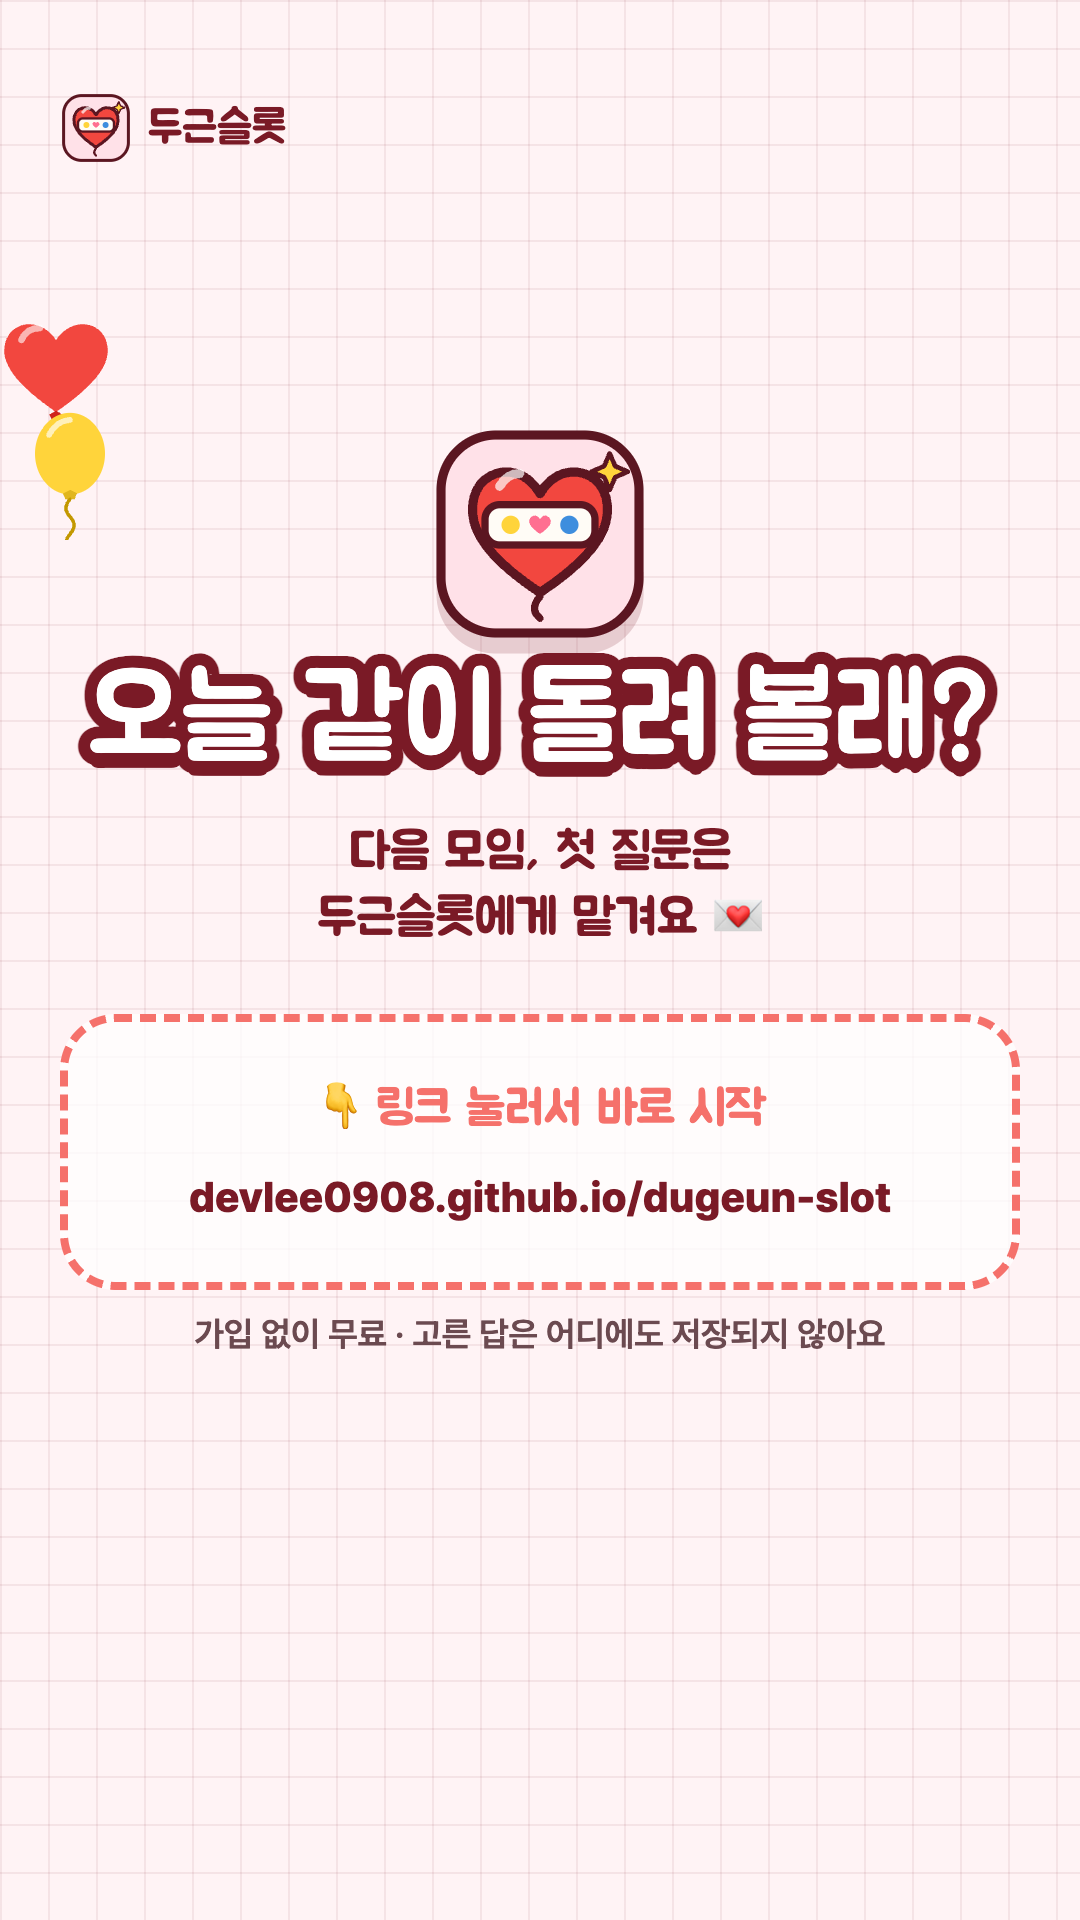
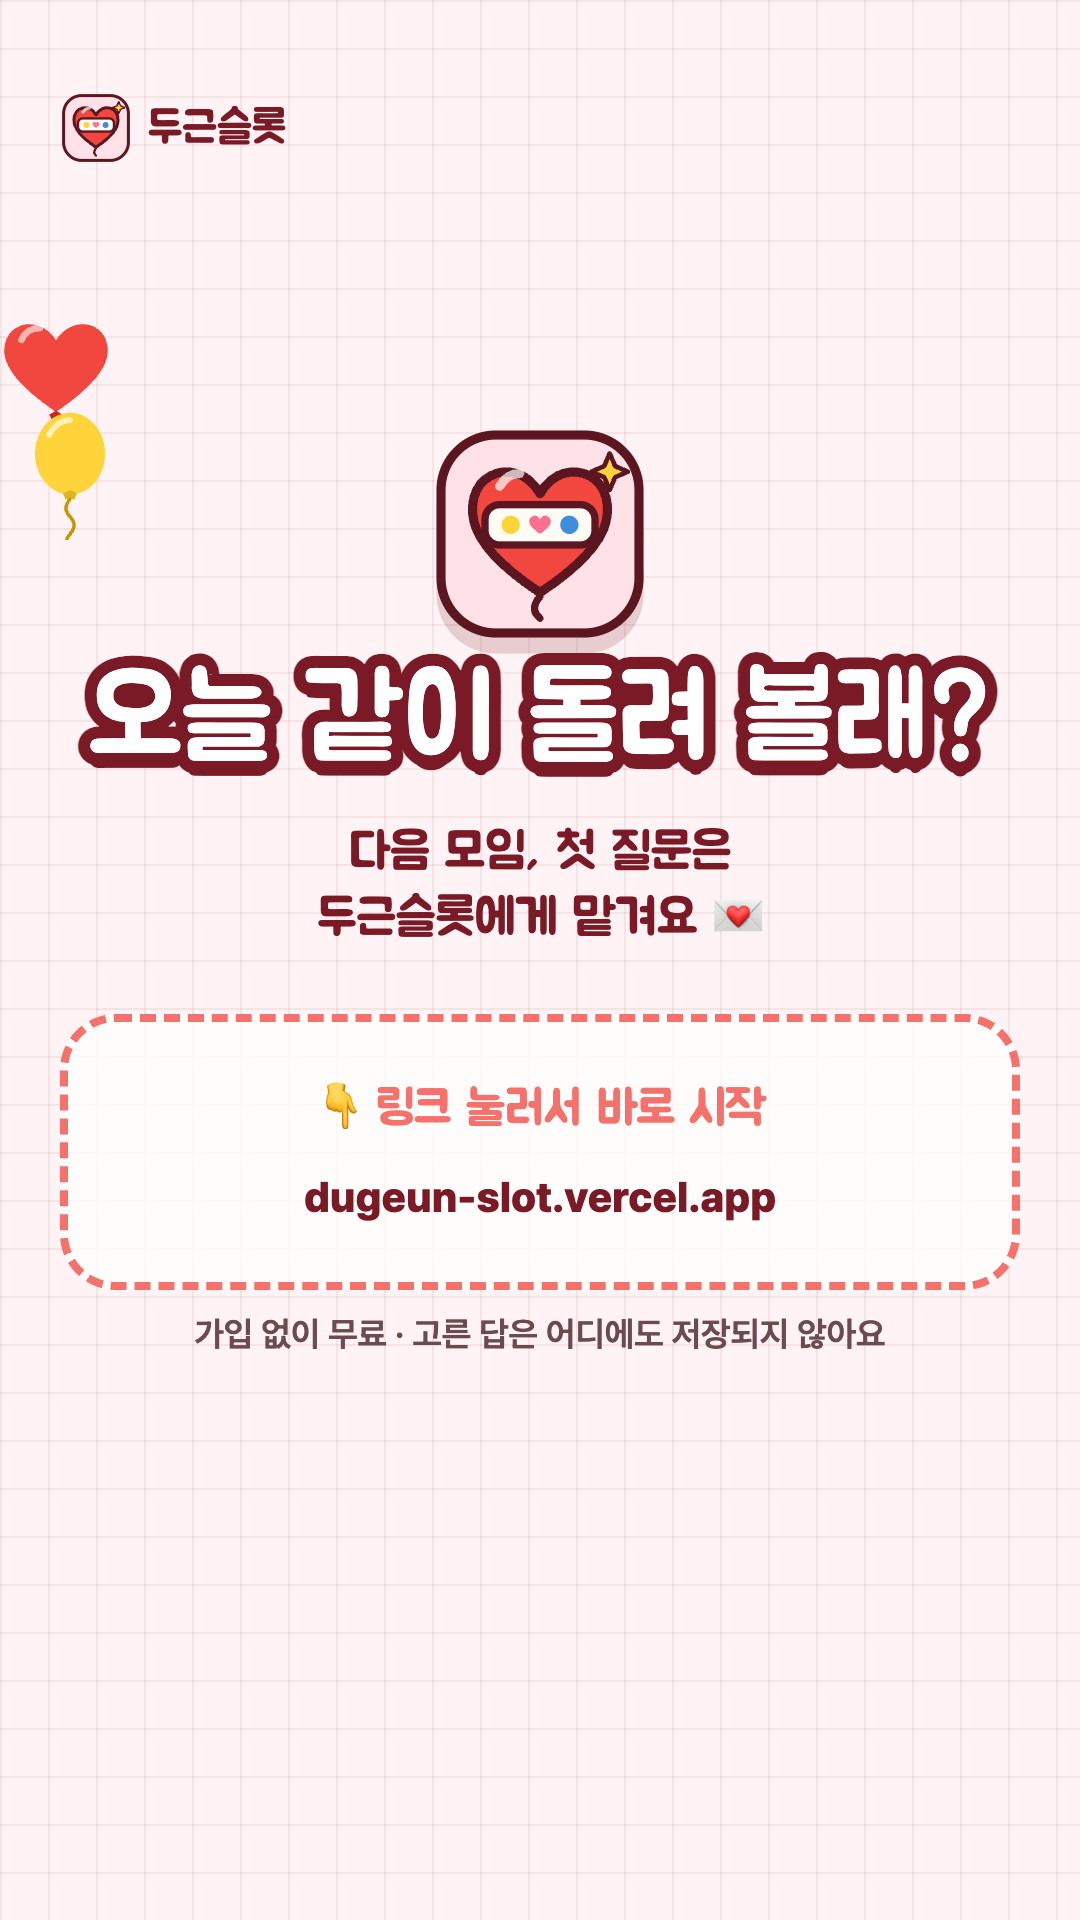
Point site metadata and promo cuts to dugeun-slot.vercel.app
Also skip analytics for automated browsers so E2E and device runs
against production never inflate visitor counts.

Generated with [Devin](https://devin.ai)

Changed region(s): [[0.1833, 0.5938, 0.7333, 0.6562], [0.7639, 0.5938, 0.825, 0.6562]]

diff --git a/public/index.html b/public/index.html
@@ -9,11 +9,11 @@
   <meta property="og:type" content="website">
   <meta property="og:title" content="두근슬롯 · 함께 돌리는 연애 수다 카드">
   <meta property="og:description" content="돌리면 시작되는 우리들의 연애 수다. 밸런스 게임 · 대화 질문 · 심리테스트">
-  <meta property="og:url" content="https://devlee0908.github.io/dugeun-slot/">
-  <meta property="og:image" content="https://devlee0908.github.io/dugeun-slot/assets/og.png">
+  <meta property="og:url" content="https://dugeun-slot.vercel.app/">
+  <meta property="og:image" content="https://dugeun-slot.vercel.app/assets/og.png">
   <meta property="og:image:width" content="1200">
   <meta property="og:image:height" content="630">
-  <link rel="canonical" href="https://devlee0908.github.io/dugeun-slot/">
+  <link rel="canonical" href="https://dugeun-slot.vercel.app/">
   <meta name="twitter:card" content="summary_large_image">
   <link rel="icon" href="assets/favicon.svg" type="image/svg+xml">
   <link rel="apple-touch-icon" href="assets/icon-192.png">

diff --git a/public/src/analytics.js b/public/src/analytics.js
@@ -1,12 +1,13 @@
 // Anonymous page-view counting via Vercel Web Analytics (cookie-less, same-origin /_vercel/insights).
 // Only screen names are sent ('/', '/setup', '/play') — never settings, card ids, votes or psych-test answers.
-// Disabled on localhost, GitHub Pages and any host not listed below.
+// Disabled on localhost, GitHub Pages, any host not listed below, and automated browsers.
 
 const HOSTS = [/\.vercel\.app$/];
 
 export const isAnalyticsHost = (hostname) => HOSTS.some((re) => re.test(hostname));
 
-const enabled = typeof location !== 'undefined' && isAnalyticsHost(location.hostname);
+// Automated browsers (our E2E/device tests, crawlers) report navigator.webdriver and are not counted.
+const enabled = typeof location !== 'undefined' && isAnalyticsHost(location.hostname) && !navigator.webdriver;
 
 export function initAnalytics() {
   if (!enabled) return;

diff --git a/AGENTS.md b/AGENTS.md
@@ -1,9 +1,9 @@
 # 두근슬롯 — agent notes
 
-- Static site in `public/` (vanilla ES modules, no build). Content lives in `public/content/*.json`. Deployed to GitHub Pages (https://devlee0908.github.io/dugeun-slot/) by `.github/workflows/pages.yml` on push to `main`.
+- Static site in `public/` (vanilla ES modules, no build). Content lives in `public/content/*.json`. Primary host: Vercel (https://dugeun-slot.vercel.app/, auto-deploys `main`); GitHub Pages (https://devlee0908.github.io/dugeun-slot/) still deploys via `.github/workflows/pages.yml`.
 - UI must not filter content itself: use `public/src/content/query.js` (pure) via `repository.js`.
 - Verify: `npm test` (unit + content validation: ≥60 per type, ≥10 cards per type×topic×group, no duplicate questions). With `npm run dev` running on :5173, run `npm run e2e` (puppeteer + Chrome) and `npm run devices` (playwright WebKit/Chrome device profiles; needs `npx playwright-core install webkit` once). Both accept `BASE_URL`.
 - Fonts are self-hosted in `public/assets/fonts/` (regenerate with `npm run fonts`); the site must make no external requests (E2E asserts this).
-- Hosting is moving to Vercel (`vercel.json`: no install, build = unit tests + content validation, output `public`). Anonymous page views go through `public/src/analytics.js` (Vercel Web Analytics, only on `*.vercel.app`, screen names only).
+- `vercel.json`: no install, build = unit tests + content validation, output `public`. Anonymous page views go through `public/src/analytics.js` (Vercel Web Analytics, only on `*.vercel.app`, skipped for `navigator.webdriver` so automated tests never count; screen names only).
 - Psych-test answers must never be stored or sent anywhere. Game progress is in-memory only (no resume feature).
 - Content copy: avoid gendered/relationship stereotypes ("이성" etc.); psych results use hedged language, 2–3 sentences.

diff --git a/marketing/instagram-story/README.md b/marketing/instagram-story/README.md
@@ -11,7 +11,7 @@
 | 4 | `04-balance.png` | 밸런스 게임 실제 카드 | **투표 스티커**("1분 단답 vs 3시간 장문")를 카드 아래 빈 공간에 붙이면 참여가 늘어요 |
 | 5 | `05-psych.png` | 심리테스트 → 즉시 결과 | **퀴즈 스티커**로 "너라면 몇 번?" 질문을 붙여도 좋아요 |
 | 6 | `06-talk.png` | 대화 질문 + 꼬리 질문 | **질문 스티커**("나는 이럴 때 알아챈다")로 답변 받기 |
-| 7 | `07-cta.png` | 사이트 주소 + 시작 유도 | 점선 박스 위에 **링크 스티커**(https://devlee0908.github.io/dugeun-slot/)를 붙이세요 |
+| 7 | `07-cta.png` | 사이트 주소 + 시작 유도 | 점선 박스 위에 **링크 스티커**(https://dugeun-slot.vercel.app/)를 붙이세요 |
 
 - 핵심 내용은 화면 위 약 12%, 아래 약 20%를 피해 배치했어요 (프로필 바·답장 입력창에 가리지 않도록).
 - 1~3컷은 스토리 하이라이트 「두근슬롯」으로 묶어 두면 프로필에서 계속 보여요.
